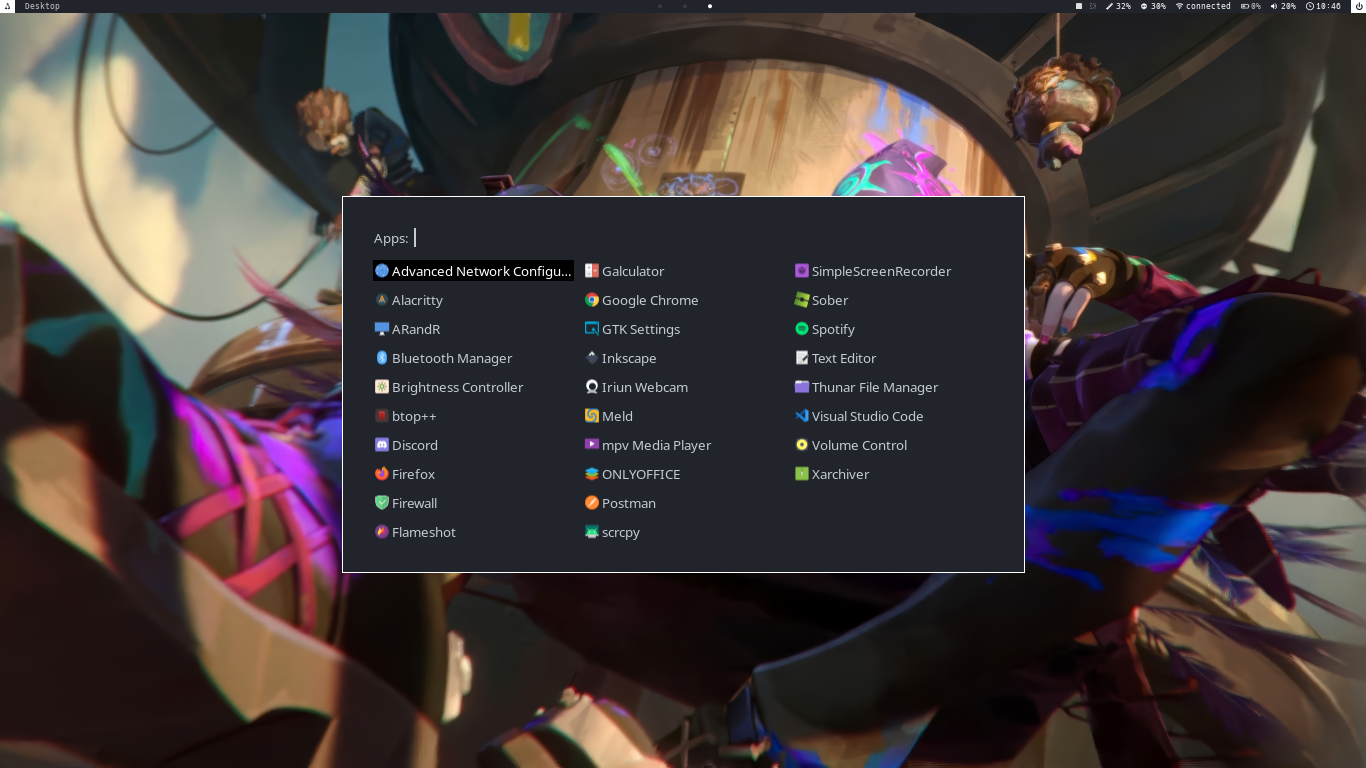
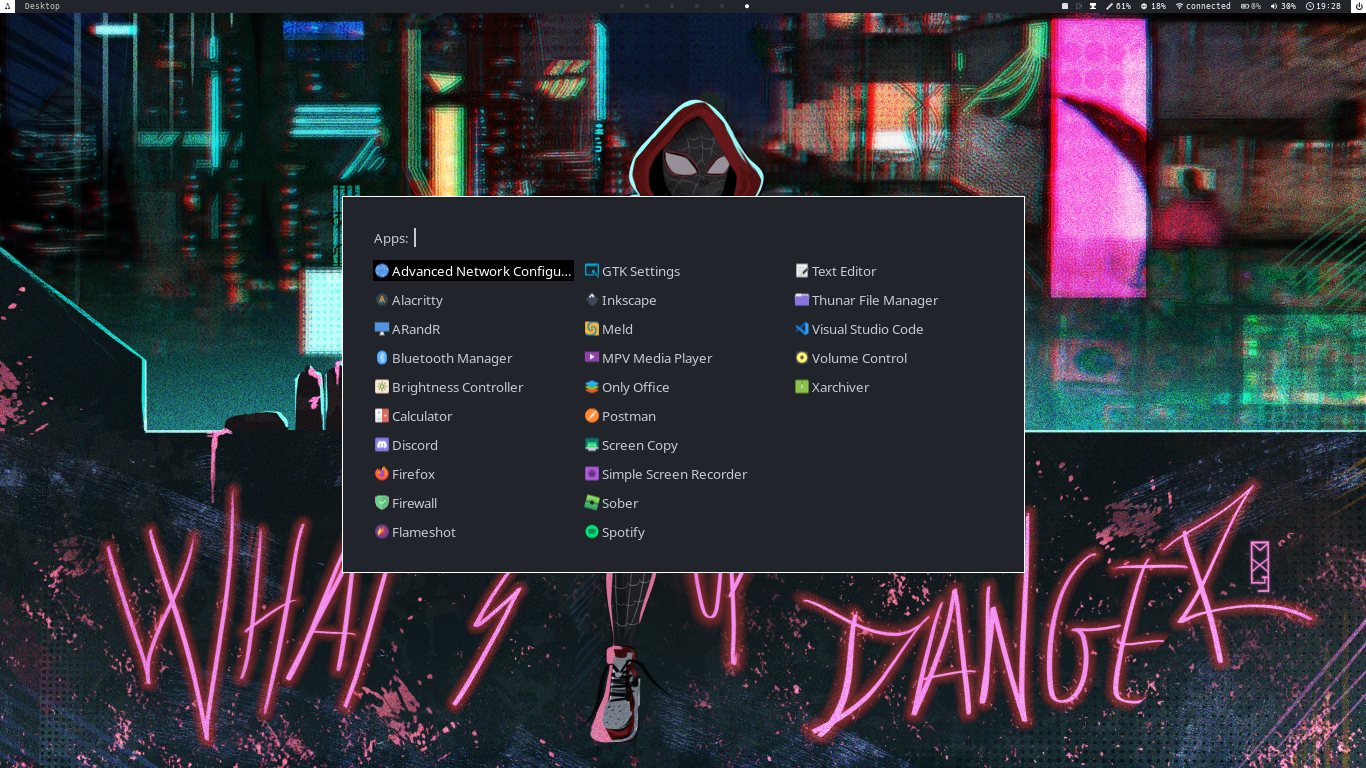
update readme and .zshrc file

diff --git a/README.md b/README.md
@@ -36,4 +36,10 @@ git clone https://github.com/deva3xd/Dotfiles.git
 
 - Firefox: https://github.com/cascadefox/cascade/tree/main
 - Polybar: https://github.com/adi1090x/polybar-themes.git
-- Wallpaper: https://github.com/gh0stzk/dotfiles/tree/master
+- Wallpaper:
+    - https://github.com/gh0stzk/dotfiles/tree/master
+    - https://wall.alphacoders.com/
+
+## You have problems during installation
+
+Report issues or we can chat on discord (username: deva3xd)
